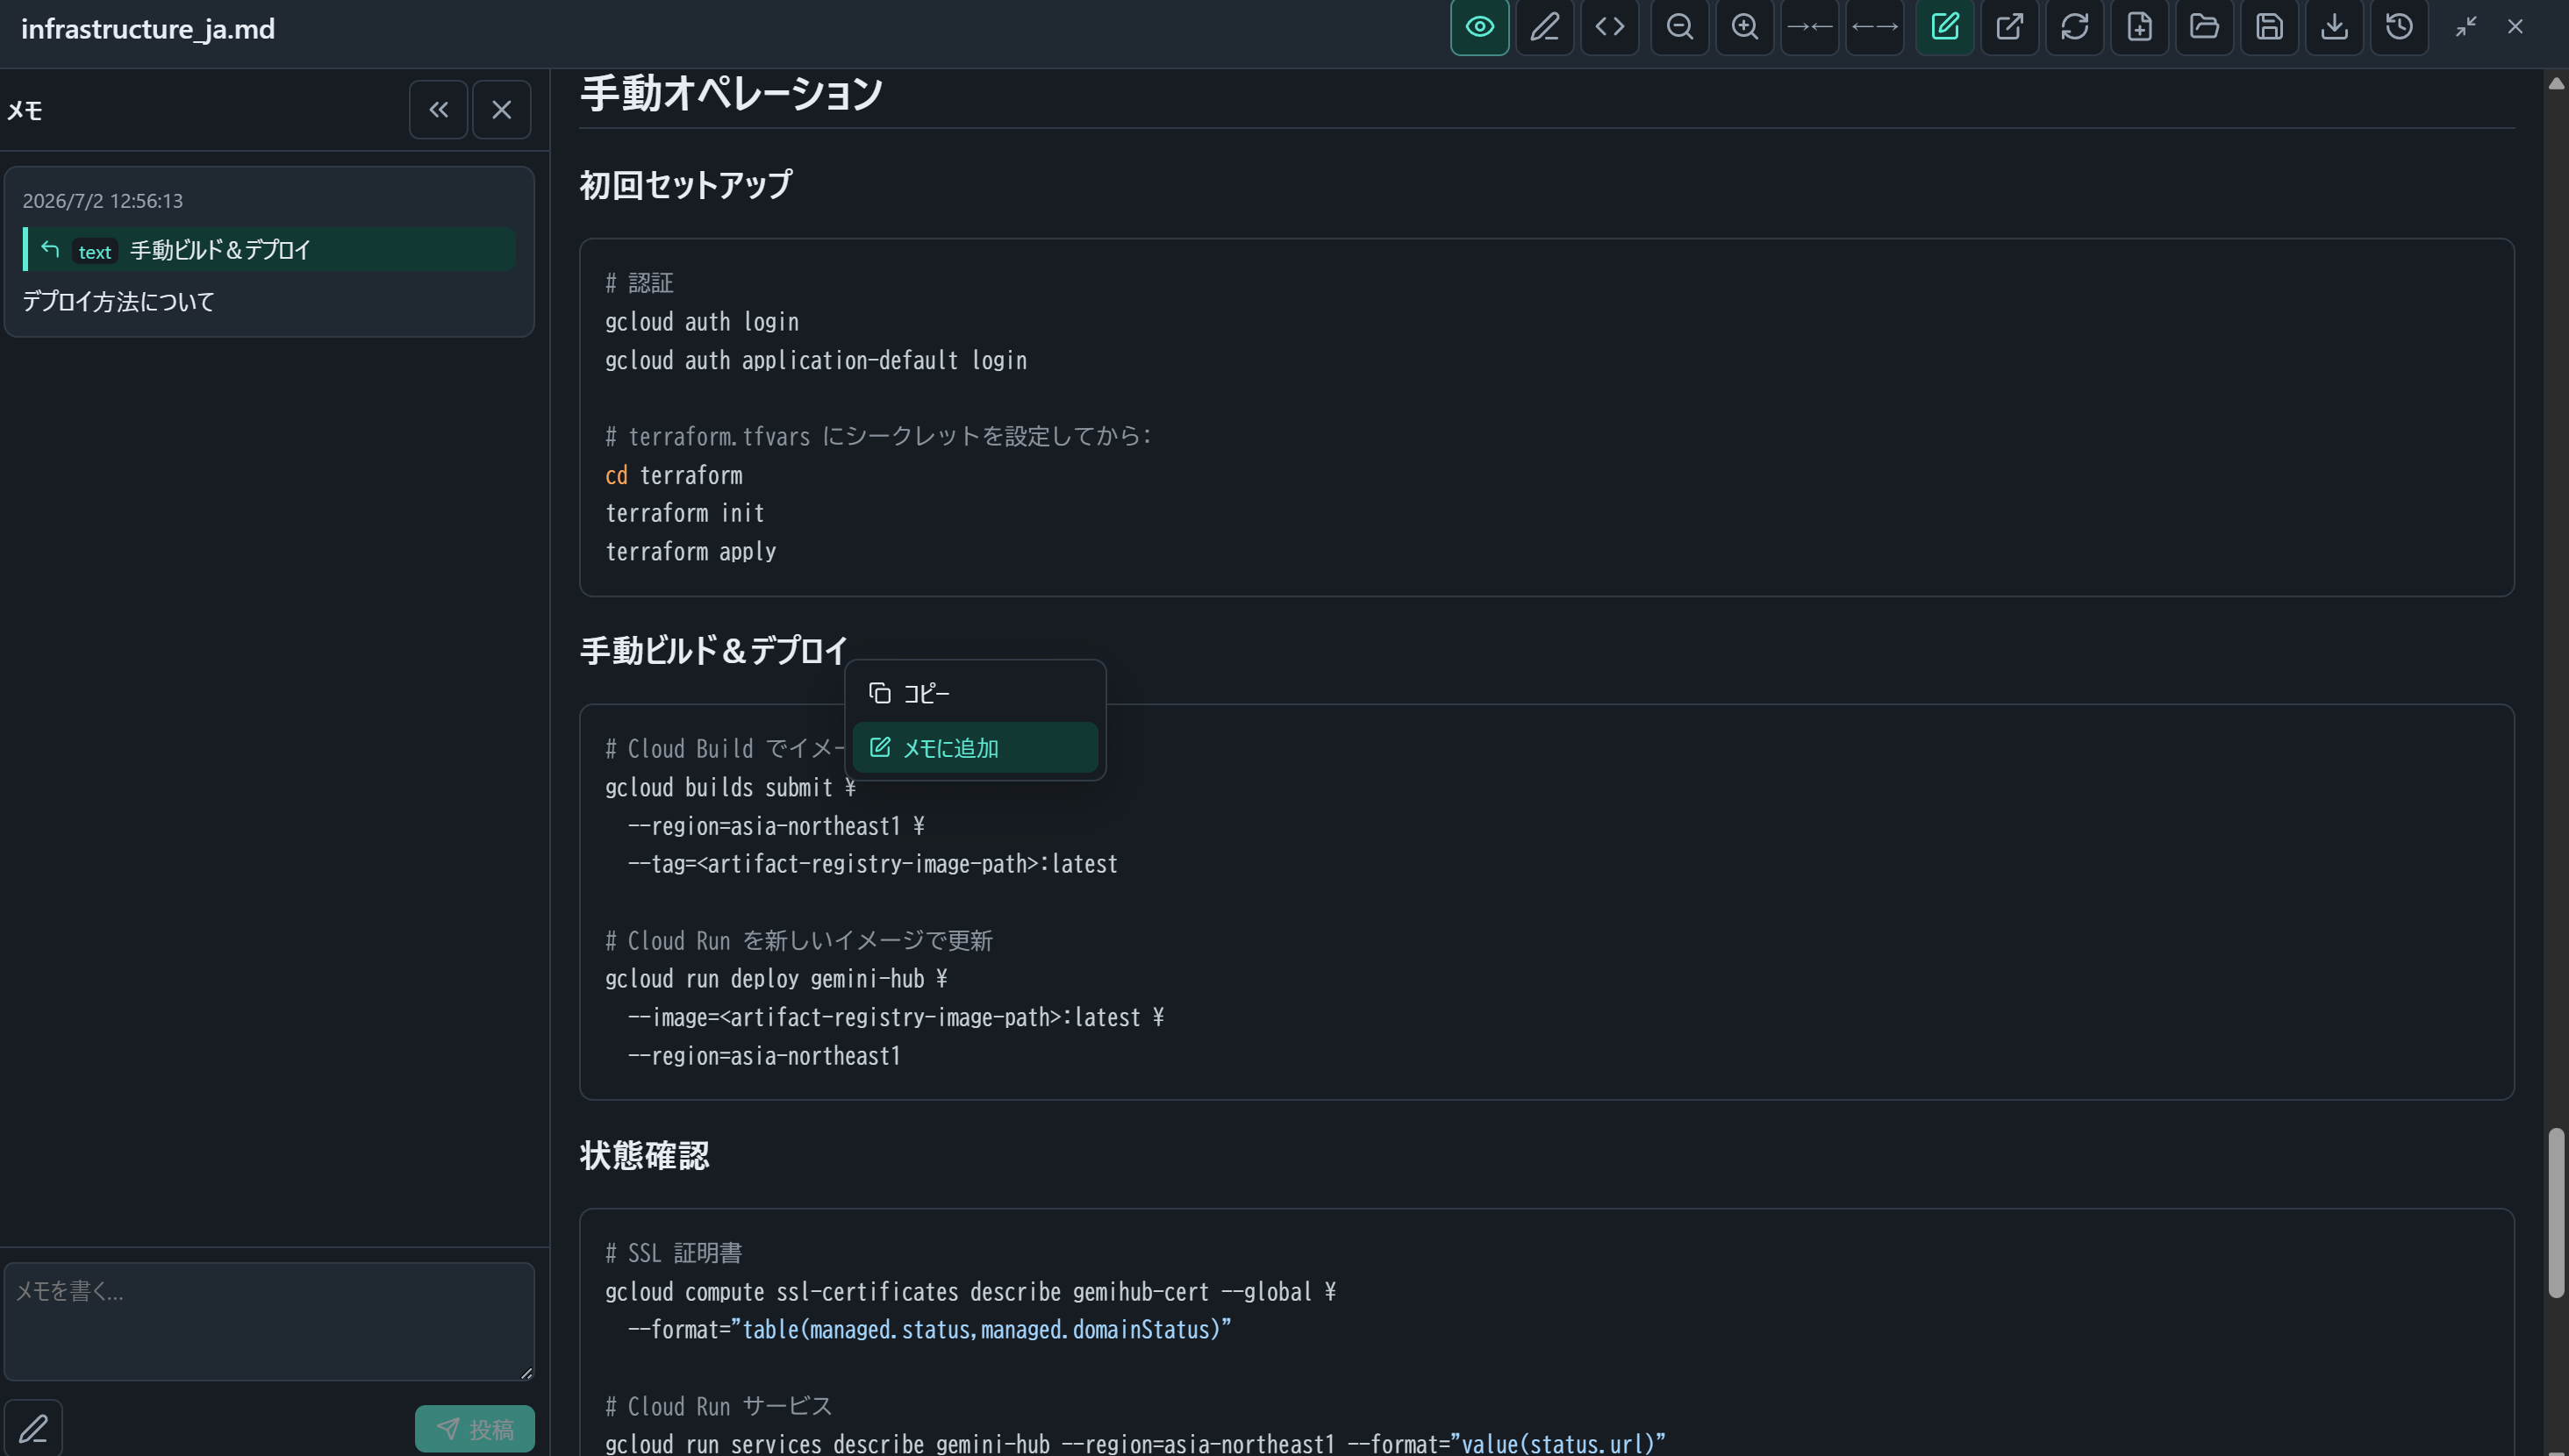
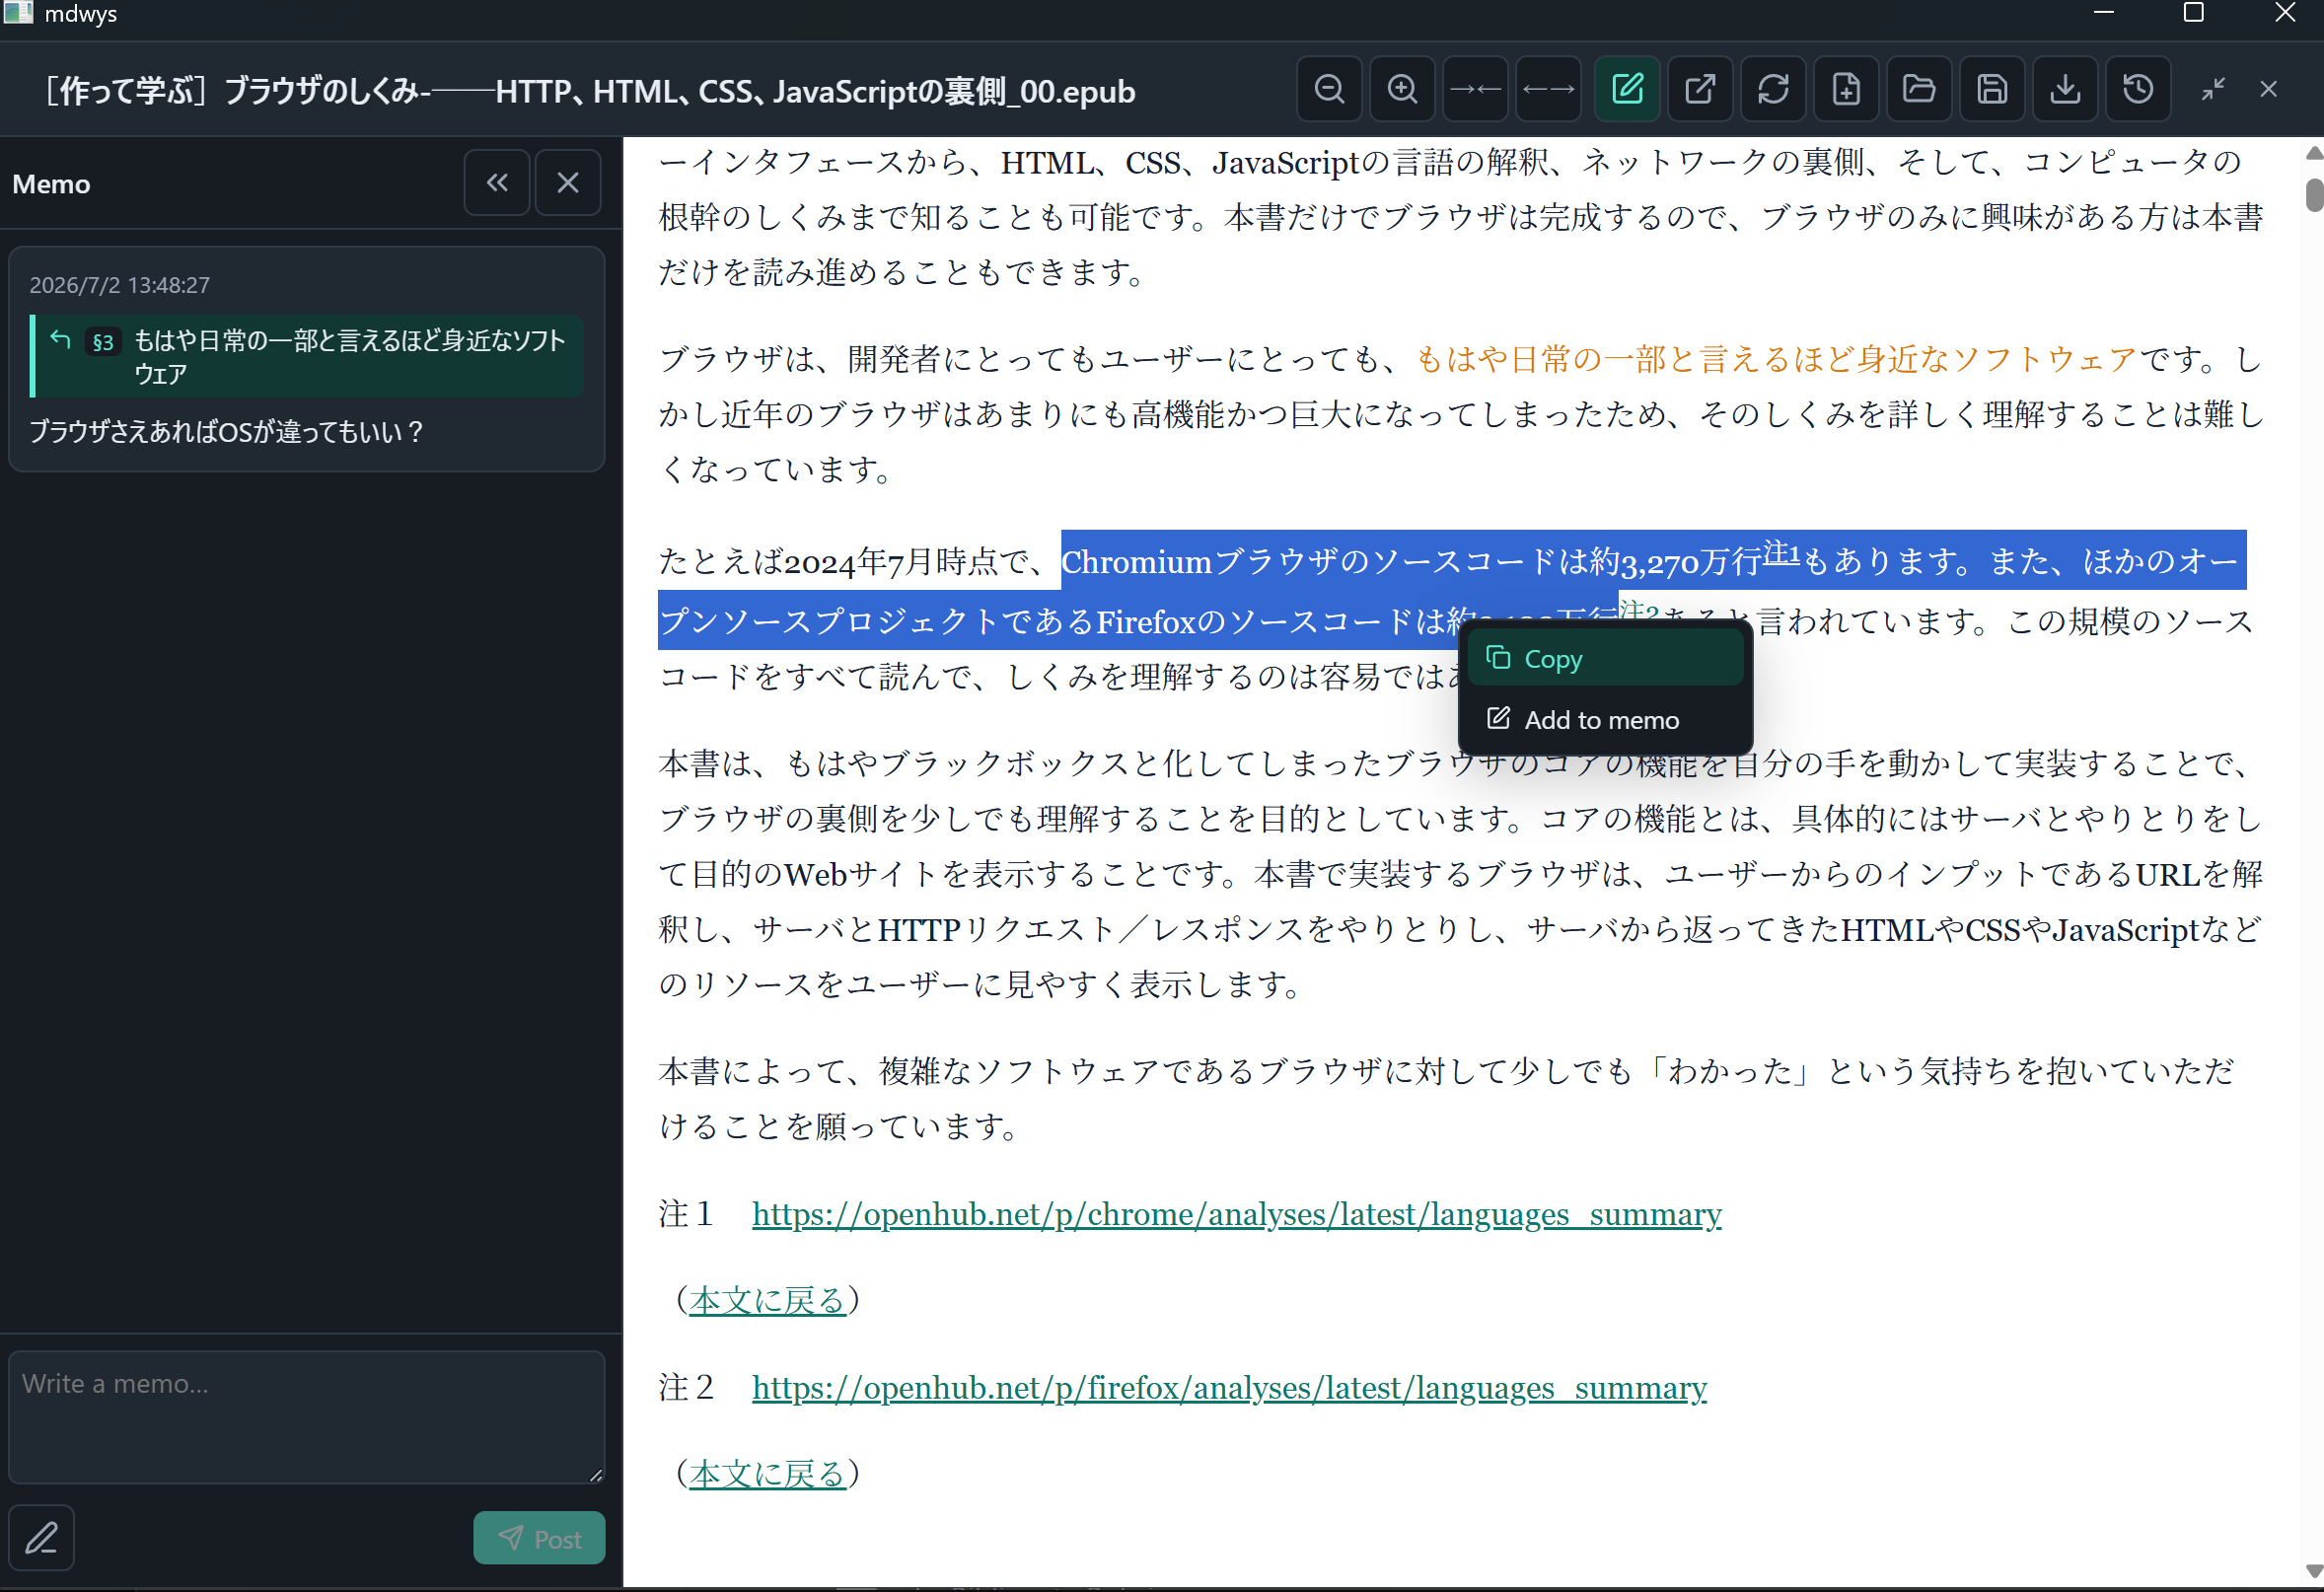
Emphasize cross-format memo highlights and condense the feature list
Lead the intro and "Why mdwys?" with memos working the same way in
Markdown, PDF, and EPUB with the quoted text highlighted in the
document, and update the memo timeline screenshot to show an EPUB
memo. Regroup the flat 20-bullet feature list into widgets/layout,
viewing/editing, and memos.

diff --git a/README.md b/README.md
@@ -1,6 +1,6 @@
 # mdwys
 
-mdwys is a lightweight local desktop workspace for Markdown and document files. It lets you open files as movable widgets, arrange them in rows or columns, edit Markdown, preview documents, attach timeline-style memos anchored to text in each document, and reload changes made by an external editor.
+mdwys is a lightweight local desktop workspace for Markdown and document files. It lets you open files as movable widgets, arrange them in rows or columns, edit Markdown, preview documents, attach timeline-style memos to text in Markdown, PDF, and EPUB — with the quoted text highlighted in the document — and reload changes made by an external editor.
 
 Built with Go, Wails, Deno, Vite, React, Wysimark, and pdf.js.
 
@@ -15,33 +15,32 @@ Built with Go, Wails, Deno, Vite, React, Wysimark, and pdf.js.
 mdwys aims at the sweet spot between a file previewer and an IDE: a single lightweight app that launches instantly from a double-click and covers the everyday loop of reading documents and writing notes.
 
 - **Read a document, take notes right next to it.** Put a tech book (EPUB/PDF) or a spec in one widget and a Markdown memo in another. The row/column widget layout exists for exactly this — one workspace instead of juggling a reader, an editor, and a notes app.
+- **Memos work the same way in Markdown, PDF, and EPUB — with highlights.** Select text in any of them, right-click, and post a memo. The quoted text is highlighted right in the document: hover to preview the memo, click to jump to the timeline entry, click the quote to jump back to the source. And every memo is a plain Markdown file you can read and edit with any tool.
 - **More than a preview, less than an IDE.** The OS preview is look-but-don't-touch, and launching a full IDE for a one-line fix is overkill. mdwys opens a file instantly, handles quick edits in place (WYSIWYG or Raw), and hands serious writing off to your favorite editor with one click — reload picks up the changes when you are done.
 - **Reading comfort you control.** Adjust the EPUB font size and page width to taste. Memo anchors re-resolve the quoted text after reflow, so highlights and jumps keep working.
-- **Notes that stay anchored to the source.** Select text, right-click, memo. Quotes jump back to the exact location, and every memo is a plain Markdown file you can read and edit with any tool.
 
 ## Features
 
-- Open local files as independent widgets.
-- Supported file types: Markdown, plain text, HTML, EPUB, PDF, and common image formats.
+**Widgets and layout**
+
+- Open local files (Markdown, plain text, HTML, EPUB, PDF, images) as independent widgets: move, resize, maximize, and close them, arranged in row- or column-oriented layouts.
+- Open files from the picker, by drag & drop (empty space creates a widget, an existing widget replaces its file), or as startup arguments — mdwys works as an "Open with" target.
+- Local-file widgets are restored after restart.
+
+**Viewing and editing**
+
 - Markdown modes: Preview, WYSIWYG, and Raw.
-- Add, move, resize, maximize, restore, and close widgets.
-- Arrange widgets in row-oriented or column-oriented layouts.
-- Drag and drop a file onto empty space to create a new widget.
-- Drag and drop a file onto an existing widget to replace that widget's file.
-- File paths passed as startup arguments open as widgets, so mdwys works as an "Open with" target for double-clicking files.
-- Set an external editor and open the current widget file from the widget toolbar.
-- Reload a widget from disk after editing the file externally.
-- Keep session history with split and unified diffs.
-- Restore local-file widgets after restart when a file path is available.
-- PDF viewing powered by pdf.js: continuous page rendering, zoom, page navigation, and text selection.
-- Per-document memo timeline: select text and right-click to add a memo with the quote and its location.
-- Anchored memos highlight the quoted text in the document; hovering previews the memo and clicking jumps to the timeline entry. Quotes in the timeline jump back to the document.
-- Memo anchors survive EPUB reflow (font size and width changes) by re-resolving the quoted text.
-- Memo timeline panel per widget: oldest first, collapse to a narrow rail with `«` / `»`, edit, delete, and pin entries, Raw/WYSIWYG composer, `[[wiki links]]` resolved against the memo directory.
-- Memos are plain Markdown timeline files stored in a configurable memo directory, one file per document (see `specs/memo.md`).
-- Memo list in the top toolbar: browse every file that has memos, filter by file name, sorted by last update with paging, and open a file with one click. Each entry shows the memo count and the beginning of the newest memo, so a final note like "done reading" is visible at a glance.
-- UI language: English and Japanese, following the system language with an override in Settings.
-- Light and dark themes.
+- PDF viewing powered by pdf.js: continuous page rendering, zoom, page navigation, and text selection. EPUB with adjustable font size and page width.
+- One-click hand-off to your external editor; reload picks up the changes. Session history with split and unified diffs.
+- Light and dark themes. English and Japanese UI, following the system language.
+
+**Memos**
+
+- Select text in Markdown, PDF, EPUB, HTML, or plain text and right-click to add a memo with the quote and its location; the quoted text is highlighted in the document.
+- Hover a highlight to preview the memo, click to jump to the timeline entry; quotes jump back to the document. Anchors survive EPUB reflow by re-resolving the quoted text.
+- Timeline panel per widget: edit, delete, and pin entries, Raw/WYSIWYG composer, `[[wiki links]]`, collapsible to a narrow rail.
+- Memos are plain Markdown files, one per document, in a configurable memo directory (see `specs/memo.md`).
+- Memo list in the top toolbar: filter by file name, paging, and each entry shows the memo count and the beginning of the newest memo — a final note like "done reading" is visible at a glance.
 
 ## Screenshots
 
@@ -53,7 +52,7 @@ The same workspace with widgets arranged in a row-oriented layout (the screensho
 
 ### Memo Timeline
 
-Select text in a document and right-click "Add to memo" to post a memo with the quote and its location. Anchored entries in the left panel jump back to the document.
+Select text in a Markdown, PDF, or EPUB document and right-click "Add to memo" to post a memo with the quote and its location. The quoted text is highlighted in the document, and anchored entries in the left panel jump back to it.
 
 ![Memo timeline](docs/images/memo_timeline.png)
 

diff --git a/README_ja.md b/README_ja.md
@@ -1,6 +1,6 @@
 # mdwys
 
-mdwys は、Markdown やドキュメントファイルをローカルで扱う軽量な desktop workspace です。ファイルを widget として開き、行・列に並べたり、Markdown を編集したり、PDF / EPUB / HTML / 画像を参照したり、ドキュメント内のテキストに紐づく Timeline 形式のメモを残したりできます。
+mdwys は、Markdown やドキュメントファイルをローカルで扱う軽量な desktop workspace です。ファイルを widget として開き、行・列に並べたり、Markdown を編集したり、PDF / EPUB / HTML / 画像を参照したりできます。メモは Markdown・PDF・EPUB のどれでも同じように取れて、引用箇所は本文にハイライト表示されます。
 
 Go、Wails、Deno、Vite、React、Wysimark、pdf.js で作っています。
 
@@ -15,33 +15,32 @@ Go、Wails、Deno、Vite、React、Wysimark、pdf.js で作っています。
 mdwys が狙うのは「プレビュー以上、IDE 未満」の立ち位置です。ダブルクリックから瞬時に立ち上がる 1 つの軽量アプリで、「資料を読む・メモを書く」という日常のループを完結させます。
 
 - **資料を読みながら、横でメモをとる。** 左に技術書の EPUB や PDF、右に Markdown のメモ。widget の行・列レイアウトはまさにこのためにあります。リーダー・エディタ・メモアプリを行き来せず、1 つのワークスペースで済みます。
+- **Markdown でも PDF でも EPUB でも、同じようにメモが取れてハイライトされる。** どのドキュメントでもテキストを選択して右クリックすればメモを投稿でき、引用箇所は本文中にハイライト表示。ホバーでメモをプレビュー、クリックでタイムラインの該当エントリへ、引用クリックで本文の該当位置へジャンプします。しかもメモはただの Markdown ファイルなので、任意のツールでそのまま読み書きできます。
 - **サクッと見て、サクッと直して、本気の編集は外部エディタへ。** OS のプレビューは見るだけ、1 行直すために IDE を立ち上げるのは大げさ。mdwys はすぐにファイルを開いてその場で軽く編集でき(WYSIWYG / Raw)、本格的に書くときは使い慣れたエディタへワンクリックで引き継ぎ、reload で変更を取り込みます。
 - **読みやすさを自分で作る。** EPUB はフォントサイズや幅を好みに調整できます。リフロー後もメモのアンカーは引用文字列の再解決で追従するので、ハイライトとジャンプは機能し続けます。
-- **メモは本文の該当箇所に紐づく。** テキストを選択して右クリックでメモ。引用から元の位置へジャンプでき、メモはただの Markdown ファイルなので任意のツールでそのまま読み書きできます。
 
 ## 主な機能
 
-- ローカルファイルを独立した widget として開く。
-- Markdown、テキスト、HTML、EPUB、PDF、主要な画像形式に対応。
-- Markdown は Preview、WYSIWYG、Raw の 3 モード。
-- widget の追加、移動、リサイズ、最大化、復元、閉じる操作。
-- 行方向・列方向のレイアウト切り替え。
-- widget がない場所への file drag & drop で新しい widget として開く。
-- 既存 widget への file drag & drop で、その widget のファイルを差し替える。
-- 起動引数に渡したファイルパスを widget として開く。ファイルの「プログラムから開く」先として mdwys を指定すればダブルクリックで開ける。
-- 外部エディタのパスを設定し、widget のファイルを外部エディタで開く。
-- 外部エディタで変更した内容を reload で反映。
-- 履歴モーダルで split / unified diff を確認。
-- PDF や画像などの大きな内容は保存せず、再起動時に file path から自動再読込。
-- pdf.js による PDF 表示: 連続ページレンダリング、ズーム、ページ移動、テキスト選択。
-- ドキュメントごとのメモタイムライン: テキストを選択して右クリック →「メモに追加」で、引用と位置(アンカー)付きのメモを投稿。
-- アンカー付きメモは本文の該当テキストをハイライト。ホバーでメモをプレビュー、クリックでタイムラインの該当エントリへ。タイムライン側の引用クリックで本文の該当位置へジャンプ。
-- EPUB のフォントサイズ・幅変更(リフロー)後も、引用文字列の再解決でハイライトとジャンプが機能。
-- メモパネルは widget ごとに開閉。古い順表示、`«` / `»` でレール状に折りたたみ、エントリの編集・削除・ピン留め、Raw / WYSIWYG コンポーザー、メモディレクトリ基準の `[[wiki link]]` に対応。
+**widget とレイアウト**
+
+- ローカルファイル(Markdown・テキスト・HTML・EPUB・PDF・画像)を独立した widget として開き、移動・リサイズ・最大化・閉じる。行方向・列方向のレイアウトを切り替え。
+- ファイルはファイル選択のほか、drag & drop(空きスペースなら新規 widget、既存 widget ならファイル差し替え)や起動引数でも開ける。「プログラムから開く」先に mdwys を指定すればダブルクリックで開く。
+- ローカルファイルの widget は再起動後も file path から復元。
+
+**表示と編集**
+
+- Markdown は Preview / WYSIWYG / Raw の 3 モード。
+- pdf.js による PDF 表示: 連続ページレンダリング、ズーム、ページ移動、テキスト選択。EPUB はフォントサイズ・幅を調整可能。
+- ワンクリックで外部エディタに引き継ぎ、reload で変更を反映。履歴モーダルで split / unified diff を確認。
+- light / dark テーマ。UI 言語は英語 / 日本語(システム言語に追従、Settings で切替可能)。
+
+**メモ**
+
+- Markdown / PDF / EPUB / HTML / テキストでテキストを選択して右クリック →「メモに追加」。引用と位置(アンカー)付きで投稿され、引用箇所は本文にハイライト表示。
+- ハイライトのホバーでメモをプレビュー、クリックでタイムラインの該当エントリへ。引用クリックで本文の該当位置へジャンプ。EPUB のリフロー後も引用文字列の再解決でアンカーが追従。
+- widget ごとのタイムラインパネル: エントリの編集・削除・ピン留め、Raw / WYSIWYG コンポーザー、`[[wiki link]]`、`«` / `»` でレール状に折りたたみ。
 - メモは設定したメモディレクトリに 1 ドキュメント = 1 Markdown ファイルとして保存(仕様は `specs/memo.md`)。
-- トップバーのメモ一覧: メモのあるファイルを更新日時の降順で一覧表示。ファイル名で絞り込み、ページング、クリックでそのファイルを開く。各項目にメモ件数と最新メモの冒頭を表示するので、読了時に「読了」とメモしておけば一覧で一目でわかる。
-- UI 言語: 英語 / 日本語(システム言語に追従、Settings で切替可能)。
-- light / dark theme。
+- トップバーのメモ一覧: ファイル名で絞り込み、ページング、各項目にメモ件数と最新メモの冒頭を表示。読了時に「読了」とメモしておけば一覧で一目でわかる。
 
 ## スクリーンショット
 
@@ -53,7 +52,7 @@ widget を行方向に並べたレイアウト(冒頭のスクリーンショッ
 
 ### メモタイムライン
 
-ドキュメント内のテキストを選択して右クリック →「メモに追加」で、引用と位置付きのメモを投稿。左パネルのエントリから本文の該当位置へジャンプできます。
+Markdown / PDF / EPUB のテキストを選択して右クリック →「メモに追加」で、引用と位置付きのメモを投稿。引用箇所は本文にハイライト表示され、左パネルのエントリから該当位置へジャンプできます。
 
 ![メモタイムライン](docs/images/memo_timeline.png)
 